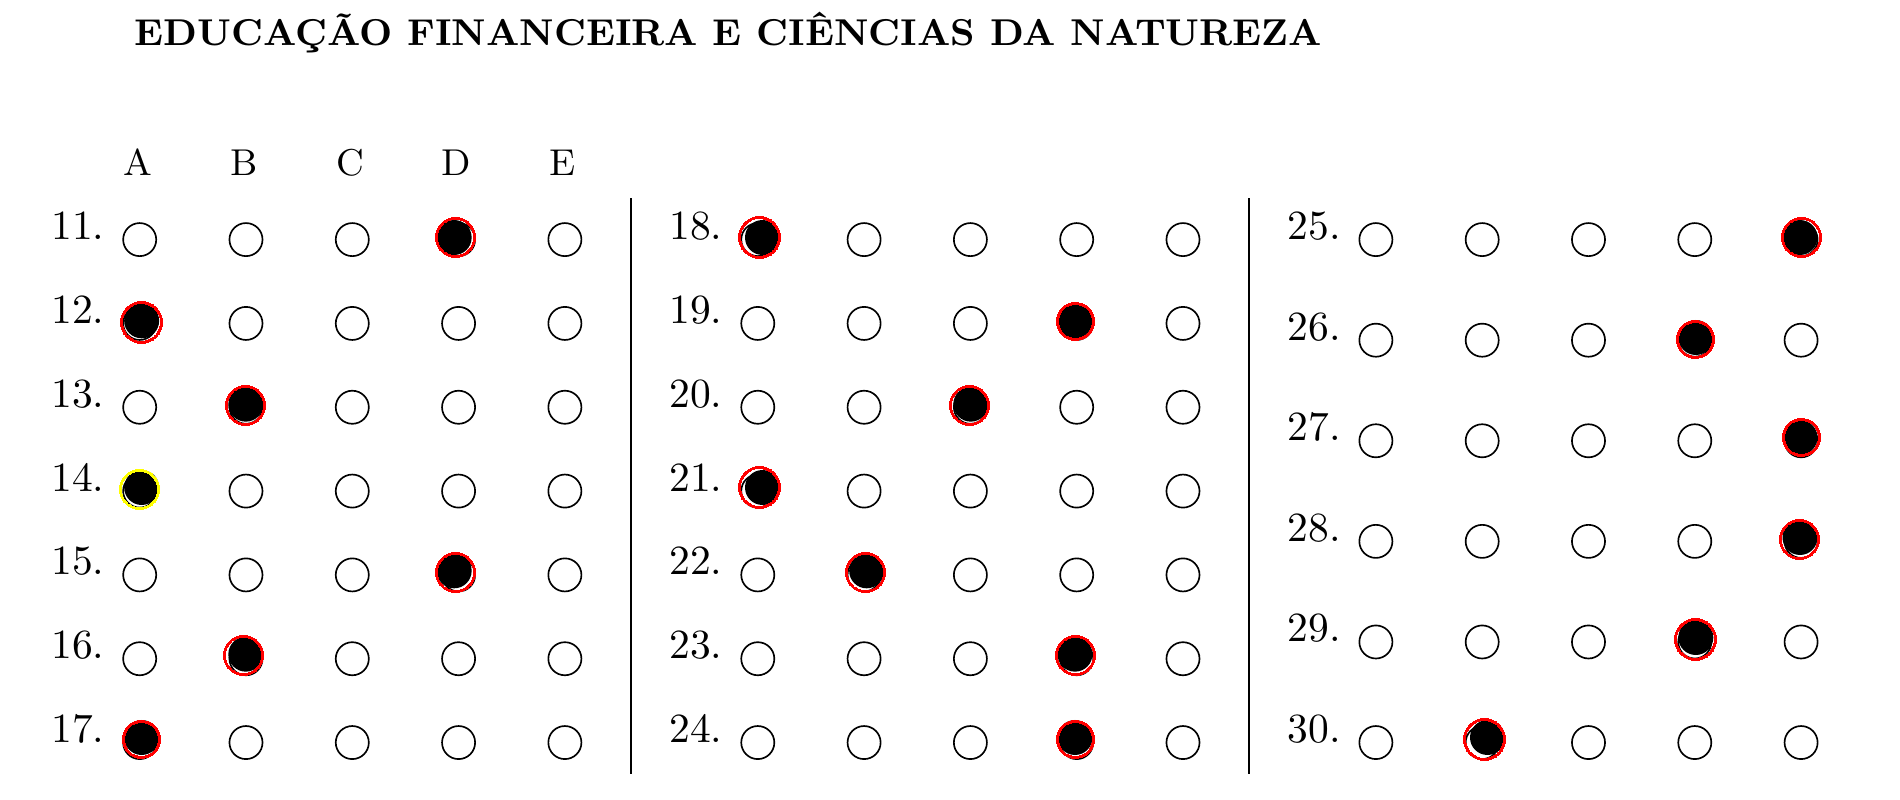
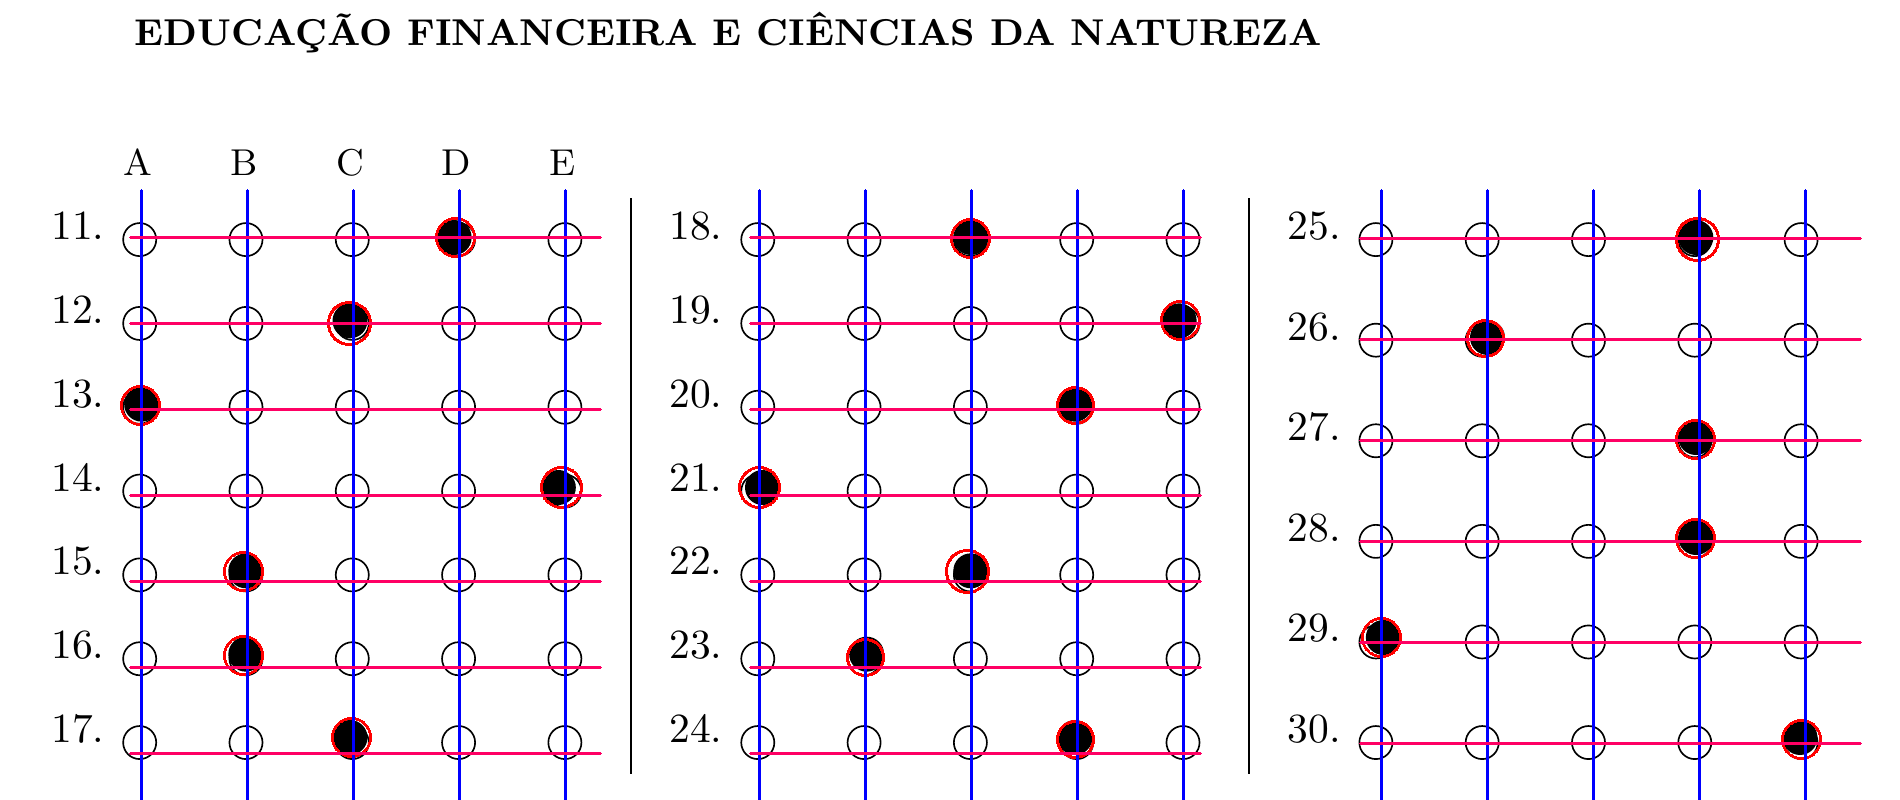
get info from image into matrix to find answer filled in the gabarito

diff --git a/AI/gabarito_answered/readpngcnt.py b/AI/gabarito_answered/readpngcnt.py
@@ -116,10 +116,99 @@ for row in rows:
             print(x, y, ratio)
             color = (0, 0, 255)
             cv2.circle(img_color, (x, y), r, color, 2)
-        
-        if x == 139 and y == 489:
-            color = (0, 255, 255)
-            cv2.circle(img_color, (x, y), r, color, 2)
+
+    ##############################################
+    ## Block - 1
+    x_alt = 141
+    for icon in ['A', 'B', 'C', 'D', 'E']:
+        # block 1 : Alternative: A, B, C, D, E
+        # Draw a white line from point (x1, y1) to (x2, y2)
+        start_point = (x_alt, 190)      # Starting coordinate
+        end_point   = (x_alt, 800)    # Ending coordinate
+        color       = (255, 0, 0)  # BGR color: white
+        thickness   = 2            # Line thickness in pixels
+
+        cv2.line(img_color, start_point, end_point, color, thickness)
+        x_alt = x_alt + 106
+
+    y_alt = 237
+    for q in range(11,18):
+        # block 1 : Alternative: A, B, C, D, E
+        # Draw a white line from point (x1, y1) to (x2, y2)
+        start_point = (130, y_alt)      # Starting coordinate
+        end_point   = (600, y_alt)    # Ending coordinate
+        color       = (100,0,255)  # BGR color: white
+        thickness   = 2            # Line thickness in pixels
+
+        cv2.line(img_color, start_point, end_point, color, thickness)
+        y_alt = y_alt + 86
+
+    ##################################################################
+
+    ##############################################
+    ## Block - 2
+    x_alt = 759
+    for icon in ['A', 'B', 'C', 'D', 'E']:
+        # block 1 : Alternative: A, B, C, D, E
+        # Draw a white line from point (x1, y1) to (x2, y2)
+        start_point = (x_alt, 190)      # Starting coordinate
+        end_point   = (x_alt, 800)    # Ending coordinate
+        color       = (255, 0, 0)  # BGR color: white
+        thickness   = 2            # Line thickness in pixels
+
+        cv2.line(img_color, start_point, end_point, color, thickness)
+        x_alt = x_alt + 106
+
+    y_alt = 237
+    for q in range(11,18):
+        # block 1 : Alternative: A, B, C, D, E
+        # Draw a white line from point (x1, y1) to (x2, y2)
+        start_point = (750, y_alt)      # Starting coordinate
+        end_point   = (1200, y_alt)    # Ending coordinate
+        color       = (100,0,255)  # BGR color: white
+        thickness   = 2            # Line thickness in pixels
+
+        cv2.line(img_color, start_point, end_point, color, thickness)
+        y_alt = y_alt + 86
+
+    ##################################################################
+
+    ##############################################
+    ## Block - 3
+    x_alt = 1381
+    for icon in ['A', 'B', 'C', 'D', 'E']:
+        # block 1 : Alternative: A, B, C, D, E
+        # Draw a white line from point (x1, y1) to (x2, y2)
+        start_point = (x_alt, 190)      # Starting coordinate
+        end_point   = (x_alt, 800)    # Ending coordinate
+        color       = (255, 0, 0)  # BGR color: white
+        thickness   = 2            # Line thickness in pixels
+
+        cv2.line(img_color, start_point, end_point, color, thickness)
+        x_alt = x_alt + 106
+
+    y_alt = 238
+    for q in range(11,18):
+        # block 1 : Alternative: A, B, C, D, E
+        # Draw a white line from point (x1, y1) to (x2, y2)
+        start_point = (1360, y_alt)      # Starting coordinate
+        end_point   = (1860, y_alt)    # Ending coordinate
+        color       = (100,0,255)  # BGR color: white
+        thickness   = 2            # Line thickness in pixels
+
+        cv2.line(img_color, start_point, end_point, color, thickness)
+        y_alt = y_alt + 101
+
+    ##################################################################
+
+        # Show the image in a window
+        #cv2.imshow("Line Example", img_color)
+        #cv2.waitKey(0)
+        #cv2.destroyAllWindows()
+
+        #if x == 139 and y == 489:
+        #    color = (0, 255, 255)
+        #    cv2.circle(img_color, (x, y), r, color, 2)
 
         #color = (0, 0, 255) if ratio >= FILL_THRESHOLD else (0, 0, 0)
         #cv2.circle(img_color, (x, y), r, color, 2)
